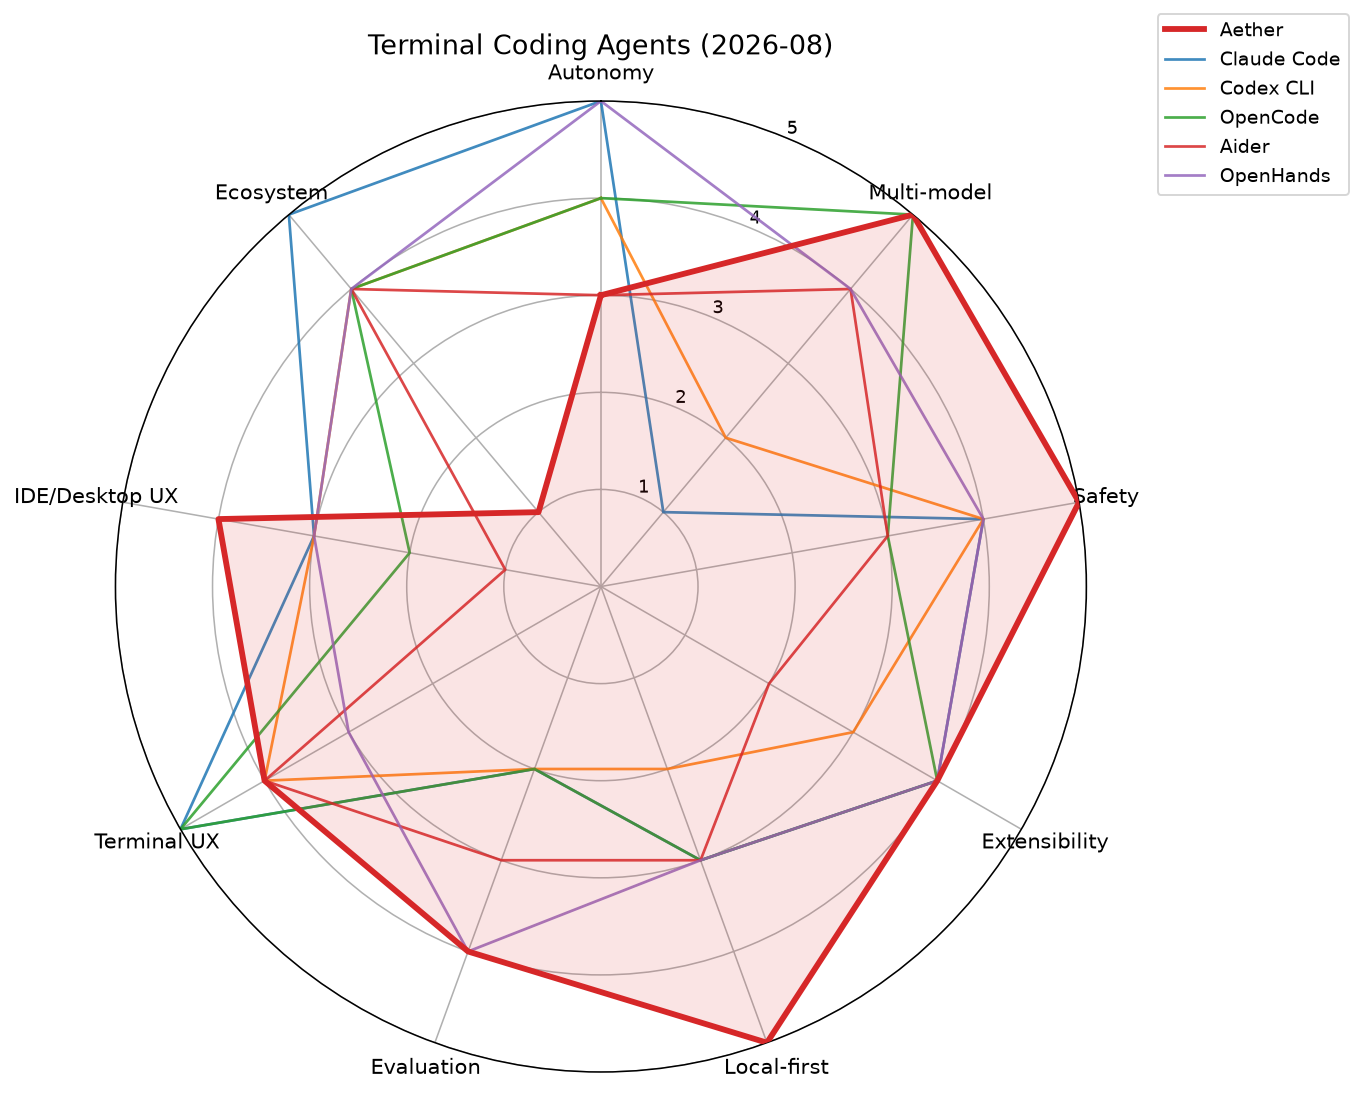
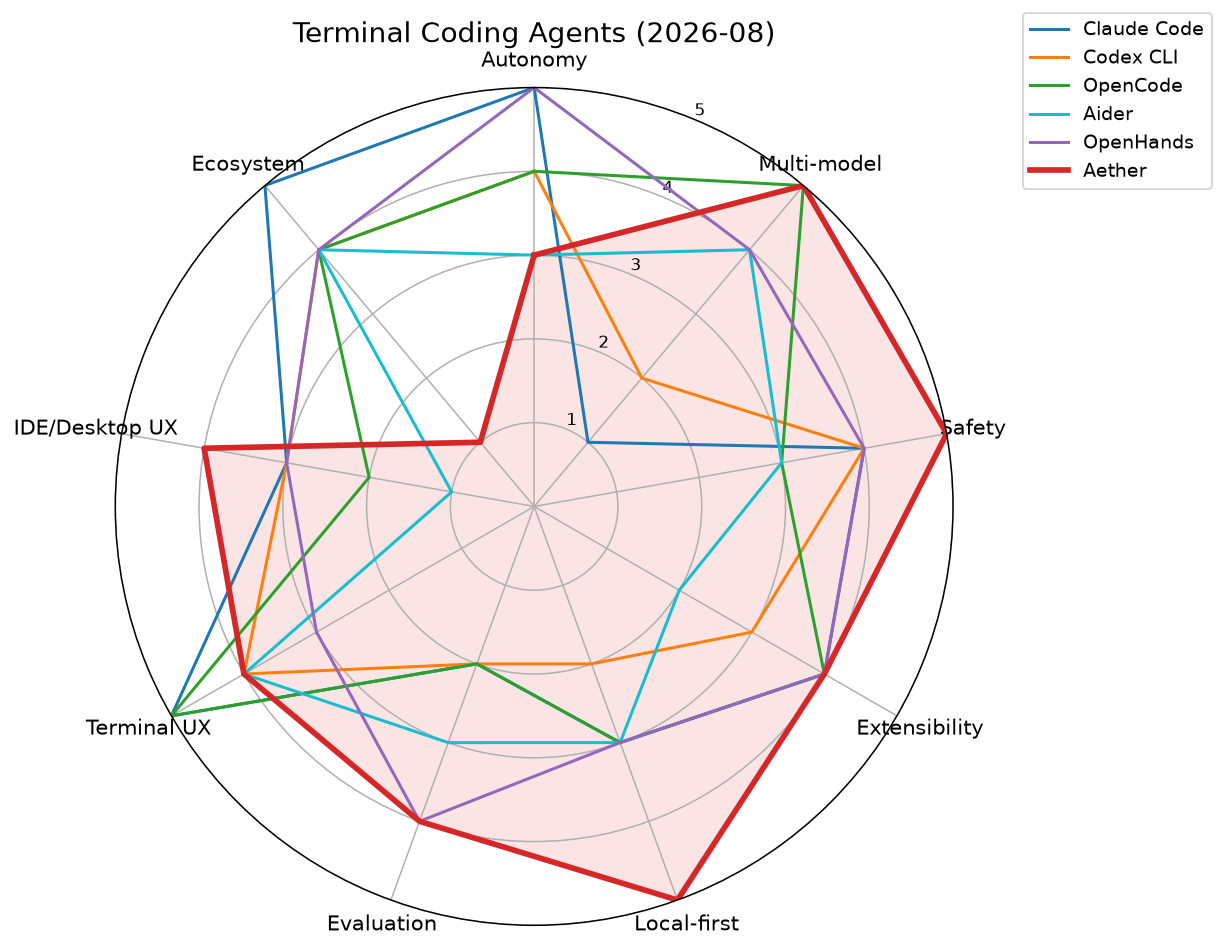
docs: 修复雷达图配色碰撞并补充评分锚点与 Cline 分组说明
- 重绘两张 PNG 兜底图：红色粗线专属 Aether 参照线（原图 A 中 Aider、
  图 B 中 Devin 同为红色细线，易混淆），并修复图例裁切
- 第 3 节补充 Cline 不进任一分组雷达图的说明
- 第 7 节补充 1/3/5 评分锚点定义，提高主观评分的可复评性

diff --git a/docs/competitive-analysis.md b/docs/competitive-analysis.md
@@ -40,7 +40,9 @@
 
 ## 3. 雷达图
 
-分组绘制以保证可读性，Aether 在两组中均作为参照线。每张图提供 Mermaid（GitHub 直接渲染）与 PNG 兜底两种形式，数据与第 2 节评分总表一一对应。
+分组绘制以保证可读性，Aether 在两组中均作为参照线（粗红线）。每张图提供 Mermaid（GitHub 直接渲染）与 PNG 兜底两种形式，数据与第 2 节评分总表一一对应。
+
+> 说明：Cline 未出现在任何一张图中——它的画像是"终端弱、VS Code 内强"的单极形态，放入任一组都会稀释对比焦点；其评分仍收录于第 2 节总表与第 5 节学习清单。
 
 ### 图 A：终端编程 Agent（Aether vs Claude Code / Codex CLI / OpenCode / Aider / OpenHands）
 
@@ -126,5 +128,6 @@ radar-beta
 
 - **数据来源**：2026-08 桌面调研（各工具官方文档、产品页与公开评测），未做逐项实测。
 - **评分性质**：1–5 分为**定性主观评分**，用于结构化对比，不构成精确度量；同一维度 ±1 分属正常判断误差。
+- **评分锚点**：1 = 基本无此能力或形同虚设；3 = 能力可用但有明显限制；5 = 同类最佳实践。2 / 4 为中间过渡档。
 - **覆盖限制**：评分反映各工具**公开默认形态**；企业版 / 私有部署能力未单独计分。
 - **时效**：Agent 工具迭代极快，本文结论有效期约一个季度，**建议每季度复评一次**（重点复核 Autonomy、Extensibility、Ecosystem 三个变动最快的维度）。
